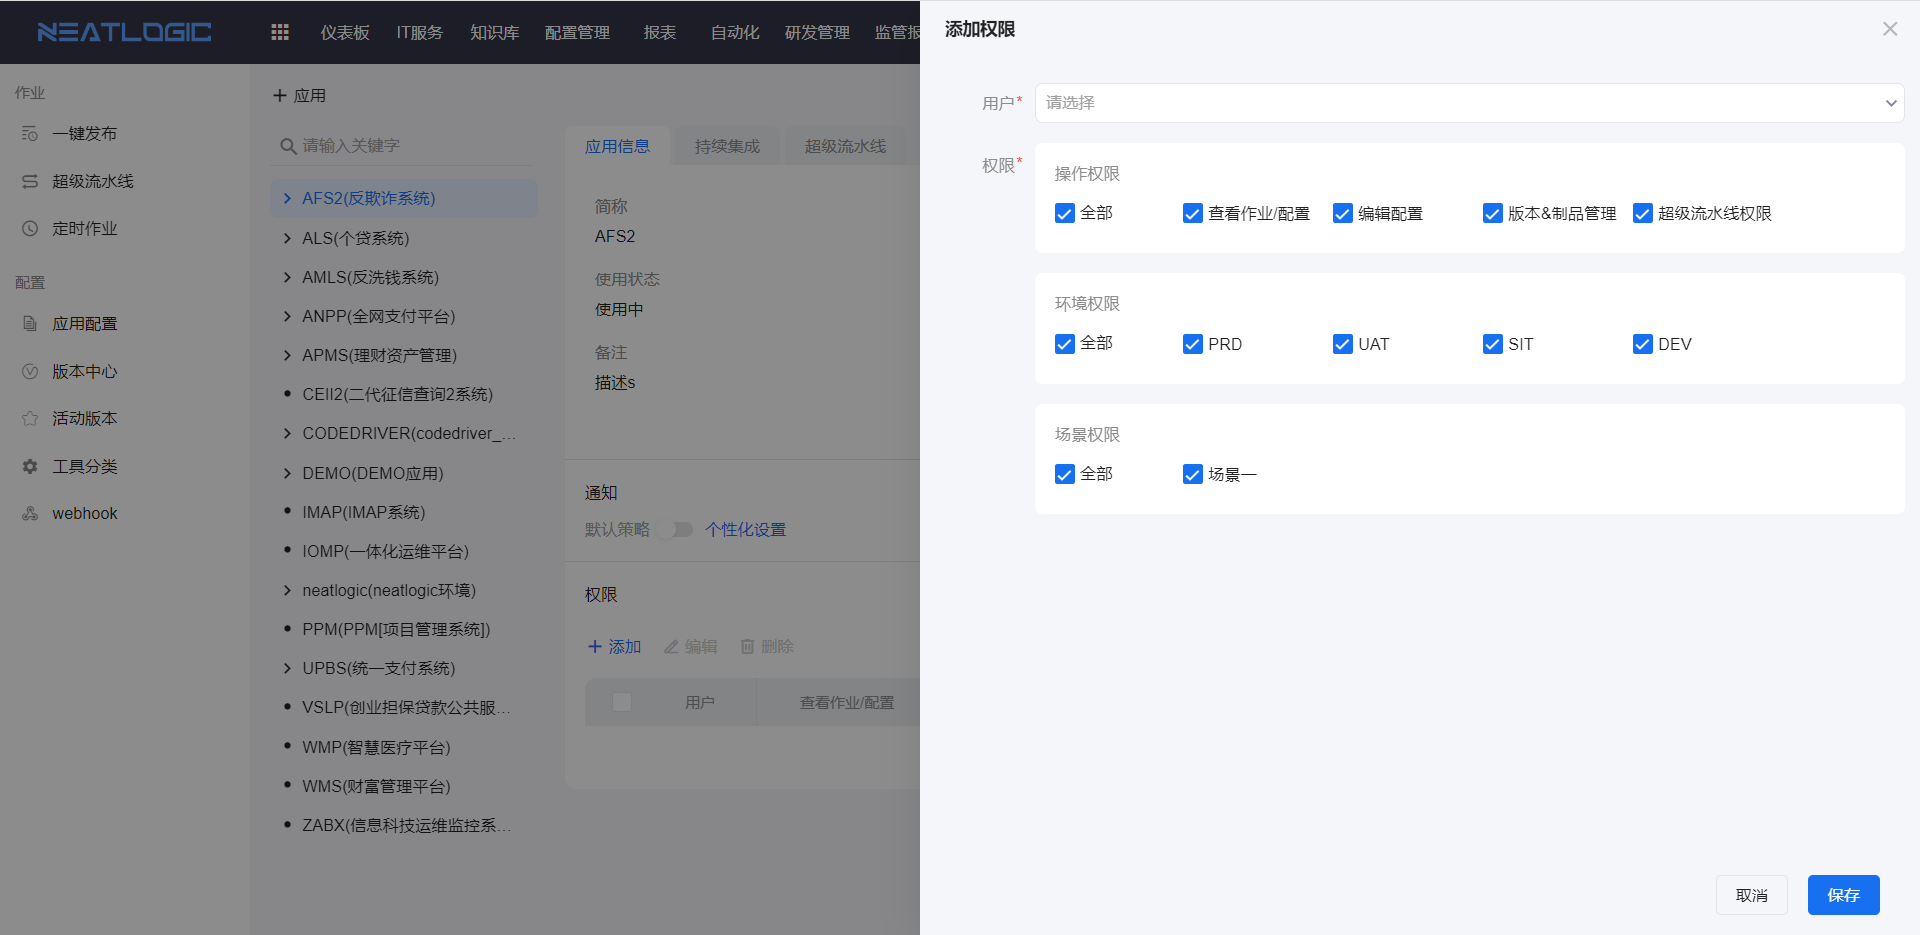
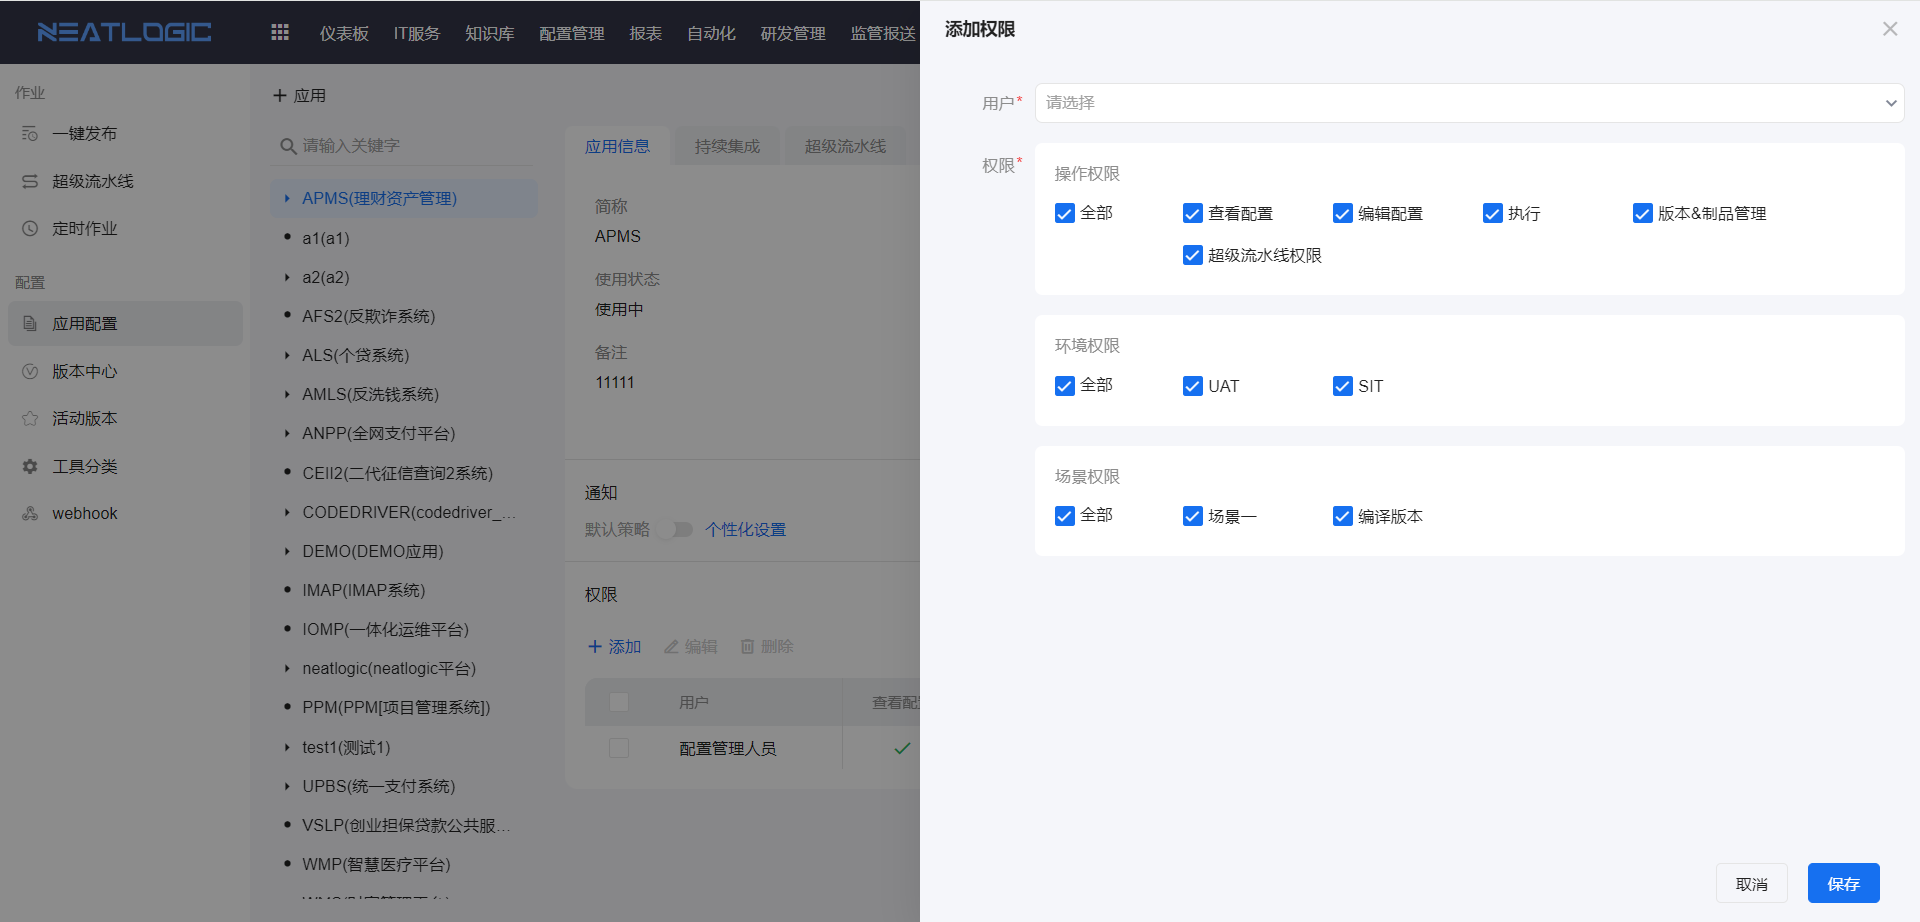
补充应用权限说明

diff --git a/src/main/resources/neatlogic/resources/documentonline/zh/6.集成与发布/应用配置.md b/src/main/resources/neatlogic/resources/documentonline/zh/6.集成与发布/应用配置.md
@@ -3,7 +3,9 @@
 
 应用配置是集成发布最核心的配置页面，在应用层来配置发布流水线（发布的脚本），模块层、环境层在继承上一级的流水线的基础上，支持重定义脚本，此外应用层还包括持续集成和超级流水线配置，应用层还支持进行资源授权，模块层可以定义执行器，环境层设置DB配置、配置文件和实例。
 
-相关权限：系统配置-权限管理-应用配置维护权限
+相关系统权限：系统配置-权限管理-应用配置维护权限 & 自动发布管理权限
+1. 自动发布管理权限范围最大，拥有这个权限的用户可以执行继承和发布模块所有的操作，没有数据范围限制。
+2. 应用配置维护权限是应用配置页面最基础的权限，拥有这个权限的用户可以访问应用配置的页面，并对有数据权限的应用执行操作，应用数据权限的详情参考 [应用层](#应用层)-4.授权。
 
 ## 流水线
 流水线是指发布的脚本工具集合，与组合工具一样，由阶段（组）、工具、作业参数、场景、连接协议和执行用户等组成，以上配置具体介绍可参考[组合工具](../5.自动化/组合工具/组合工具.md)。
@@ -33,14 +35,43 @@
    ![](images/应用配置_应用层_保存为草稿.png)
    再次编辑流水线时可选择继续编辑草稿。
    ![](images/应用配置_流水线草稿.png)
-2. 应用层支持编辑应用数据和添加子模块数据
+2. 应用层支持编辑应用数据和添加子模块数据，另外新增的应用的权限列表中会自动添加一条授权信息，授权的对象是添加应用的用户，即添加应用的用户默认就有应用的所有权限。
 ![](images/应用配置_管理应用和模块信息.png)
 
 3. 通知，配置发布失败后的通知策略，策略来源于系统配置-通知策略管理。
 ![](images/应用配置_通知.png)
 
-4. 授权，应用层可对应用的操作、环境、场景进行授权。
+4. 授权，应用层可对应用的操作、环境、场景进行授权，应用未授权时，默认所有用户都能看到该应用的配置。
 ![](images/应用配置_应用授权.png)
+   - 查看配置权限：在应用列表中，控制应用是否显示。
+      
+      授权给用户查看配置权限后，仅授权对象可以看到该应用，并查看应用及下级模块、环境的配置；
+      ![](images/应用配置_授权_有查看配置权限.png)
+      未被授权的用户查看应用配置时，应用列表不显示该应用。
+      ![](images/应用配置_授权_无查看配置权限.png)
+
+   - 编辑配置权限：在应用配置页面，控制用户能否编辑应用配置；默认包含了查看配置权限执行权限。
+
+      授权给用户编辑，用户可编辑应用的配置。若用户无应用的编辑配置权限，编辑操作隐藏或禁用。
+      ![](images/应用配置_授权_无编辑配置权限.png)
+
+   - 执行权限：在一键发布页面，控制应用是否能够执行作业
+
+      用户缺少应用的执行权限时，在一键发布页面无法发起该应用的作用。
+      ![](images/应用配置_授权_无执行权限.png)
+
+   - 版本&制品管理权限：在版本中心页面，控制是否能够对应用的版本和制品进行管理操作。
+      ![](images/应用配置_授权_无版本和制品权限.png)
+  
+   - 超级流水线权限：在应用配置页面，控制是否能够管理应用的超级流水线。
+      ![](images/应用配置_授权_有超级流水线权限.png)
+      ![](images/应用配置_授权_无超级流水线权限.png)
+  
+   - 环境权限：在发起发布作业时，控制是否能够选择对应的环境。
+      ![](images/应用配置_授权_无环境权限.png)
+
+   - 场景权限：在发起发布作业时，控制是否能够选择对应的场景。
+      ![](images/应用配置_授权_无场景权限.png)
 
 5. 支持配置配置持续集成，持续集成是指在特定事件下触发发布作业的配置，支持添加、编辑、删除和搜索配置等操作。
 ![](images/应用配置_持续集成.gif)
@@ -65,7 +96,7 @@
 ## 环境层
 选中应用模块下关联的环境，页面切换到环境配置，环境配置页面支持配置环境的DB配置、配置变量及变量实例差异、实例列表。
 ![](images/应用配置_环境层.png)
-1. 删除环境，是指解除模块和当前环境的关联关系，不是物理上删除环境数据。
+1. 删除环境，是指解除模块和当前环境的关联关系，不是物理上删除环境数据，环境的数据来源于[全局属性](../3.配置管理/系统管理/全局属性管理.md)中的“应用环境”属性。
 ![](images/应用配置_删除环境.png)
 
 2. DB配置：DB配置有添加、编辑和删除操作，数据库对象来源于资产清单的数据库实例，账号来源于已选数据库实例配置的账号

diff --git a/src/main/resources/neatlogic/resources/documentonline/zh/100.系统配置/3.数据和集成/表单管理.md b/src/main/resources/neatlogic/resources/documentonline/zh/100.系统配置/3.数据和集成/表单管理.md
@@ -10,8 +10,8 @@
 - 基础组件：包括文本框、文本域、下拉框、单选框、复选框、日期、表格选择等等
 - 布局组件：包括分割线、选项卡、折叠面板
 - 自动化组件：连接协议、执行目标
-- 配置管理组件：配置项修改、配置项选择
-- 自定义组件
+- 配置管理组件：配置项修改
+- 自定义组件：通过脚本自定义的组件
 
 #### 组件配置
 下面讲解的组件使用频较高，剩下未讲解的组件配置较简单，可自行摸索。组件引用的矩阵数据源都来自[矩阵管理](../../100.系统配置/3.数据和集成/矩阵管理.md)。
@@ -43,7 +43,7 @@
    **下拉框**组件引用矩阵数据源时，还支持隐藏属性配置。隐藏属性在实际应用时，并不会展示出来，但是在其他地方引用下拉框时，可以作为引用的对象。
    ![](images/表单管理_表单组件_下拉框隐藏属性.png)
    隐藏属性使用场景：<br>
-   被文本框、文本域引用，作为组件赋值联动的动态赋值引用来源。
+   被文本框、文本域引用，作为组件赋值联动的动态赋值引用来源，赋值。
    ![](images/表单管理_表单组件_下拉框隐藏属性应用.png)
    
 4. 表格选择、表格输入、矩阵选择
@@ -98,7 +98,7 @@
   ![](images/表单管理_组件联动_隐藏.png)
 - 只读：当前组件切换成只读，无法编辑数据。配置驱动条件，当驱动组件数据满足条件，当前组件只读。
   ![](images/表单管理_组件联动_只读.png)
-- 赋值：赋予当前组件预设的值。配置驱动条件和预设值，当驱动组件数据满足条件，赋值给当前组件。
+- 赋值：赋予当前组件预设的值，组件的值为空时赋值才能生效。配置驱动条件和预设值，当驱动组件数据满足条件，赋值给当前组件。
   ![](images/表单管理_组件联动_赋值.png)
   **文本框、文本域** 的赋值联动还支持动态赋值，支持引用[下拉框](#组件配置)组件的值或者隐藏属性，下拉框为多选时，回显所有选项拼接的值。
 - 禁用：禁止使用，与只读的区别是，只读会保留值，但是禁用不保留值。配置驱动条件和预设值，当驱动组件数据满足条件，禁止使用当前组件。

diff --git a/src/main/resources/neatlogic/resources/documentonline/zh/100.系统配置/3.数据和集成/矩阵管理.md b/src/main/resources/neatlogic/resources/documentonline/zh/100.系统配置/3.数据和集成/矩阵管理.md
@@ -6,12 +6,15 @@
 自定义数据源的自由度比较高，矩阵的属性完全由用户自行配置，支持批量导入数据。
 步骤：添加矩阵-配置属性-添加行（数据）
 ![](images/矩阵管理_添加.gif)
+属性的类型有文本框、日期、下拉框、用户、分组、角色、地域和模型，其中用户、分组、角色、地域和模型的数据均来自系统内相应的管理页，详情参考文档：[用户和权限](../1.用户和权限/用户和权限.md)、地域管理、[模型管理](../../3.配置管理/模型管理/模型管理.md)。<br>
+在添加数据时，若属性选择了多个数据，会根据笛卡尔积规则生成多条数据。<br>
 
 导入和导出
 ![](images/矩阵管理_导入导出.png)
 - 导出数据：导出当前自定义数据源矩阵所有数据，导出为excel格式
 - 导出模板：导出为导入数据的模板，模板是excel格式
-- 导入数据：将数据导入到当前矩阵中，导入文件格式是excel格式
+- 导入数据：将数据导入到当前矩阵中，导入文件格式是excel格式。<br>
+  用户和角色支持通过uuid、id和名称导入，分组支持通过uuid、名称和全路径导入，地域支持uuid和名称导入。
 - 导出：导出整个矩阵，导出为bak格式
 
 ### 外部数据源

diff --git a/src/main/resources/neatlogic/resources/documentonline/zh/2.IT服务/工单处理/工单处理.md b/src/main/resources/neatlogic/resources/documentonline/zh/2.IT服务/工单处理/工单处理.md
@@ -118,7 +118,7 @@
 - 催办：催办功能可结合通知功能使用，[流程设置](../流程管理/流程管理.md)关联的通知模板中有催办的通知配置，发起催办同时可通知指定用户。有催办权限的用户才能操作，权限详情参考[流程管理](../流程管理/流程管理.md)-流程设置。
   ![](images/催办.png)
 
-- 取消/恢复:取消或恢复工单，取消工单成功后，工单状态变成已取消。有取消权限的用户才能操作，权限详情参考[流程管理](../流程管理/流程管理.md)-流程设置。
+- 取消/恢复:取消或恢复工单，取消工单成功后，工单状态变成已取消。有取消权限的用户才能操作，权限详情参考[流程管理](../流程管理/流程管理.md)-流程设置。还在处理中或者异常的工单支持取消。
   ![](images/取消.png)
 
 - 删除工单：这个操作在工单中心的工单列表中，详情参考[工单管理](../工单中心/工单中心.md)-工单列表。

diff --git a/src/main/resources/neatlogic/resources/documentonline/zh/2.IT服务/工单中心/工单中心.md b/src/main/resources/neatlogic/resources/documentonline/zh/2.IT服务/工单中心/工单中心.md
@@ -10,7 +10,7 @@
 ![](images/系统自带的工单分类.png)
 - 所有工单：所有最近一年上报的工单。
 - 我的待办：步骤的处理人、待处理人和子任务处理人包括当前登录人的工单集合。
-- 我的已办：已处理的步骤处理人或子任务处理人包含当前登录人的工单集合。
+- 我的已办：包括历史步骤的处理人是当前登录人的工单、已完成处理的子任务的处理人包含当前登录人的工单、已完成的审批链的处理人包含当前登录人的工单、由当前登录人转交过的工单
 - 我的草稿：工单处理人是当前登录人的草稿集合，草稿的上报人默认可以删除草稿，不用判断是否拥有工单管理权限。
 
 ### 系统分类

diff --git a/src/main/resources/neatlogic/resources/documentonline/zh/6.集成与发布/一键发布.md b/src/main/resources/neatlogic/resources/documentonline/zh/6.集成与发布/一键发布.md
@@ -16,7 +16,7 @@
 ![](images/一键发布_添加作业.gif)
 应用模块未配置执行器时，显示快捷添加执行器操作入口。
 ![](images/一键发布_快速关联执行器.png)
-当前已选的场景中包含构建（Build）类型的工具，已选的模块需要选择构建版本（Buildno），版本来源于[版本中心](../6.集成与发布/版本中心.md)。
+当前已选的场景中包含build或deploy类型的工具，已选的模块需要选择构建版本（Buildno），版本来源于[版本中心](../6.集成与发布/版本中心.md)。
 ![](images/一键发布_添加版本.gif)
 
 ## 批量作业
